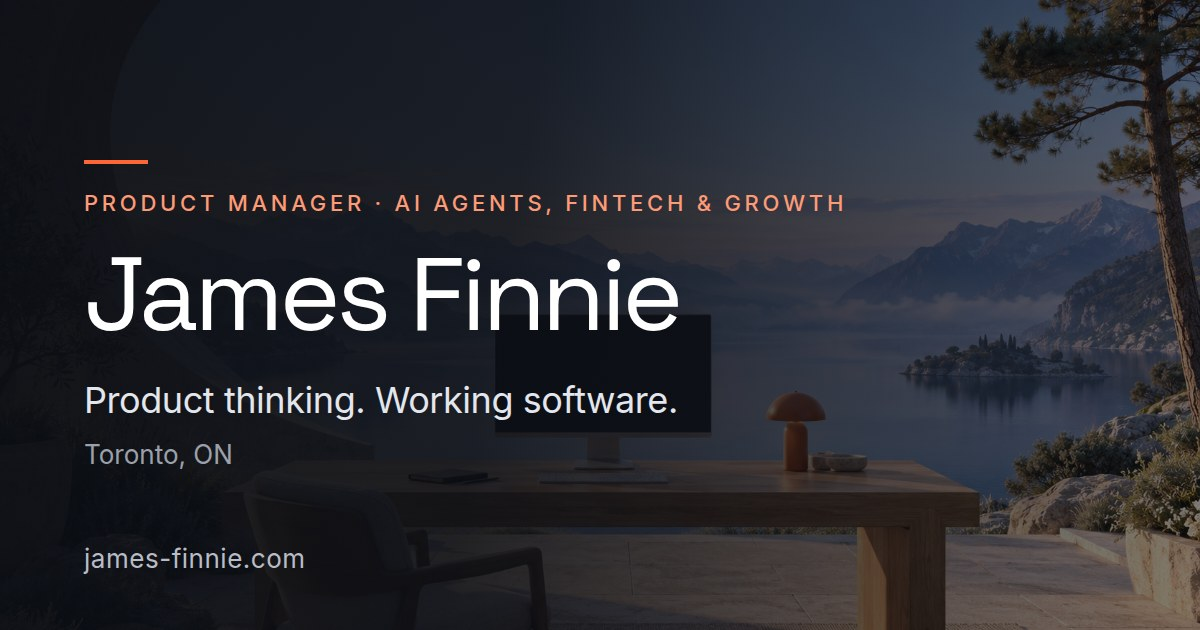
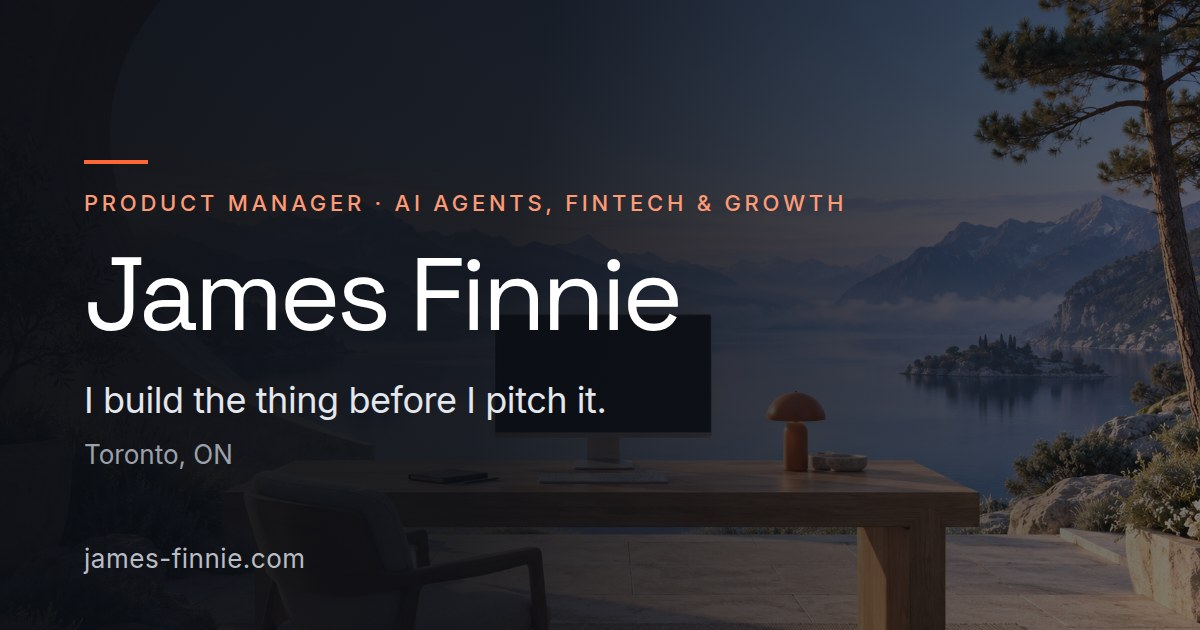
Retitle the page: "I build the thing before I pitch it"
"Product thinking. Working software." reads as two fragments rather than a
claim, and it says nothing a hundred other product managers could not say.
The new headline is the actual differentiator, and it is true: prototype-first
decisions are the method described further down the page.

Also rewrites the lead beneath it, which opened with "I build the AI tooling"
and echoed the headline's first three words, and regenerates the social card.

Claude-Session: https://claude.ai/code/session_01Wukw6GP941GsrNLpr5RDyy

Changed region(s): [[0.0617, 0.6032, 0.555, 0.6635]]

diff --git a/index.html b/index.html
@@ -55,8 +55,8 @@
       <div class="screen-page">
         <div class="screen-body">
           <p class="screen-kicker">Product Manager &mdash; AI Agents, Fintech &amp; Growth</p>
-          <h1>Product thinking.<br>Working software.</h1>
-          <p class="screen-lead">I build the AI tooling product teams run on inside one of Canada&rsquo;s largest banks &mdash; and ship my own AI products on the side. Toronto, ON.</p>
+          <h1>I build the thing<br>before I pitch it.</h1>
+          <p class="screen-lead">Right now that means the AI tooling product teams run on inside one of Canada&rsquo;s largest banks &mdash; and my own AI products, shipped on the side. Toronto, ON.</p>
           <div class="screen-links">
             <a href="mailto:james_finnie@icloud.com">Email</a>
             <a href="https://www.linkedin.com/in/james-finnie/" target="_blank" rel="noopener noreferrer">LinkedIn</a>
